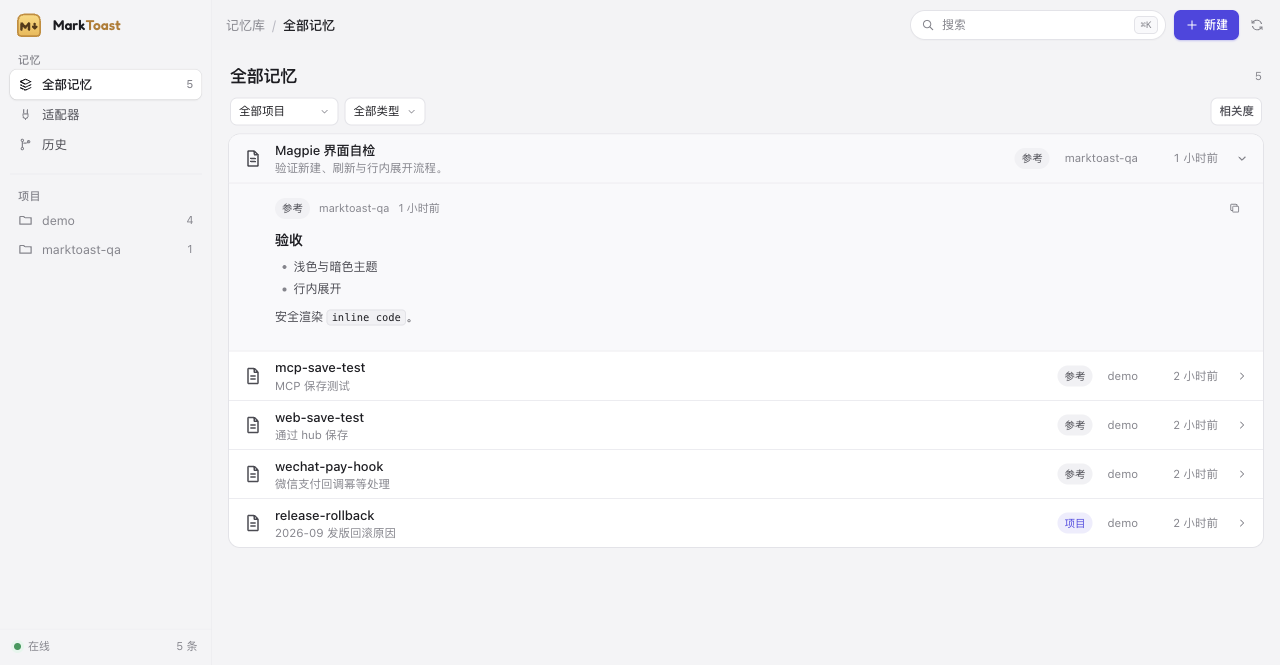
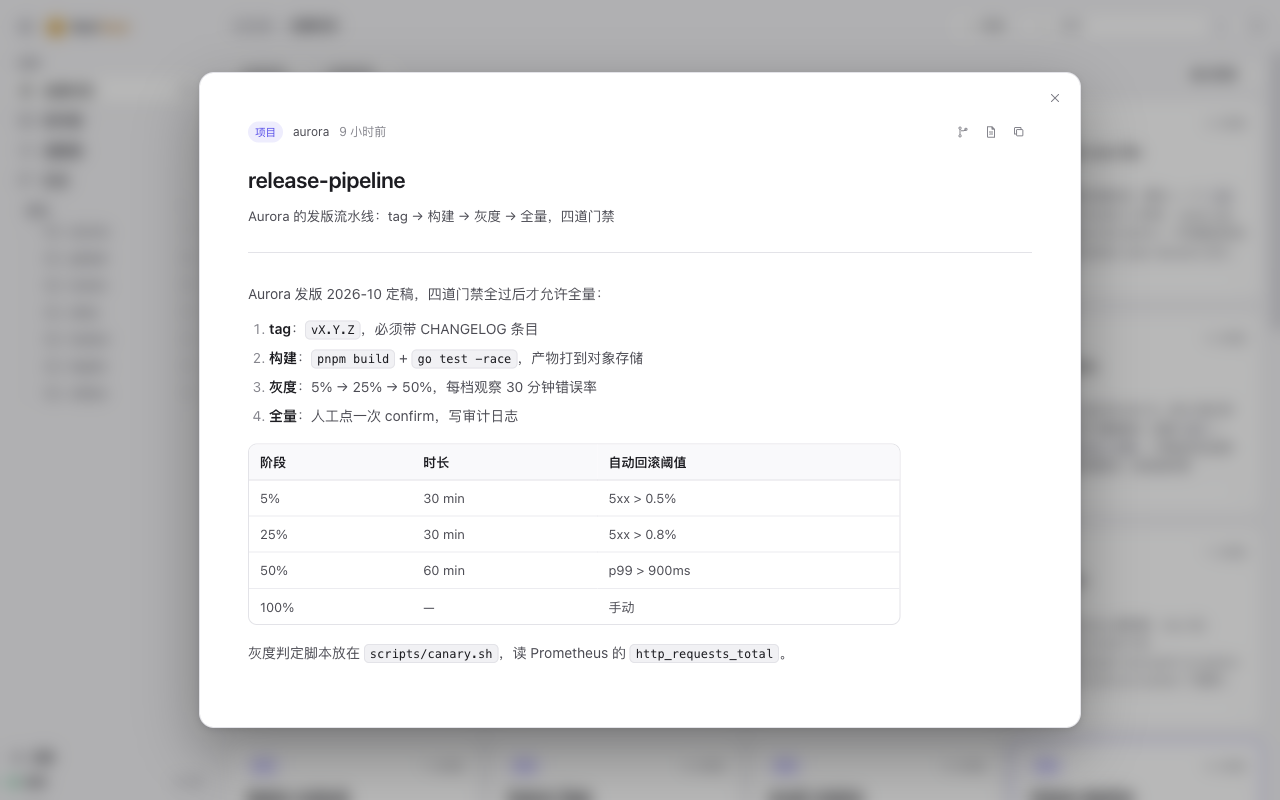
docs: refresh the README screenshots against a demo repository
The shots in docs/assets were from 2026-11-04: the pre-card-wall UI, and
taken over a real memory repository. They are now 1280x800 captures of a
35-fact demo repo (six fictional projects plus global, five memory types),
light and dark, with the document reader, settings, history and adapters
pages. A note beside them says how they are made and warns against shooting
the real repository, whose bodies carry client names and paths.

The stale ui-topbar.png is gone: it was a byte-for-byte copy of ui-light.

diff --git a/docs/assets/README.md b/docs/assets/README.md
@@ -1,0 +1,20 @@
+# 界面截图
+
+这些 PNG 是 README 用的界面图，**全部来自一份 demo 记忆仓库**，不是任何人的真实记忆。
+
+- 内容：35 条虚构事实，分 6 个项目（aurora / lumen / harbor / kepler / willow / atlas）
+  加 `global`，覆盖 用户 / 反馈 / 项目 / 参考 / 决策 五种类型
+- 尺寸：1280 × 800，浅色与深色各一张；页面本身是 1x CSS 像素
+- 拍法：把 demo 仓库挂到 hub 上——`marktoast --root <demo目录> serve --addr 127.0.0.1:3799`，
+  浏览器开 `http://127.0.0.1:3799/`，视口设 1280×800，再按页面截图
+
+| 文件 | 页面 |
+| --- | --- |
+| `ui-light.png` | 记忆墙（浅色） |
+| `ui-dark.png` | 记忆墙（深色） |
+| `ui-detail.png` | 单条记忆的文档阅读视图（`release-pipeline`：有序列表 + 表格 + 行内码） |
+| `ui-settings.png` | 设置 → 常规（外观 / 语言 / 快捷键 / 阅读字号） |
+| `ui-history.png` | 历史（demo 仓库的 Git 提交） |
+| `ui-adapters.png` | 适配器页（这一页反映本机安装的 harness，不是记忆内容） |
+
+**不要把真实 `~/Memory` 的截图放进仓库**：事实正文里有客户名、内网地址、密钥片段。
